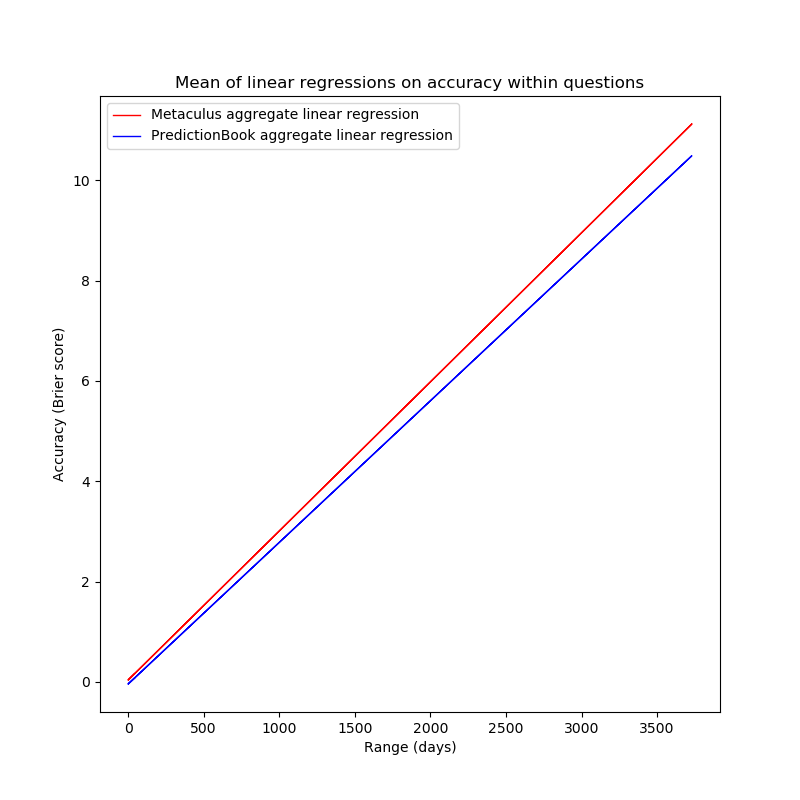
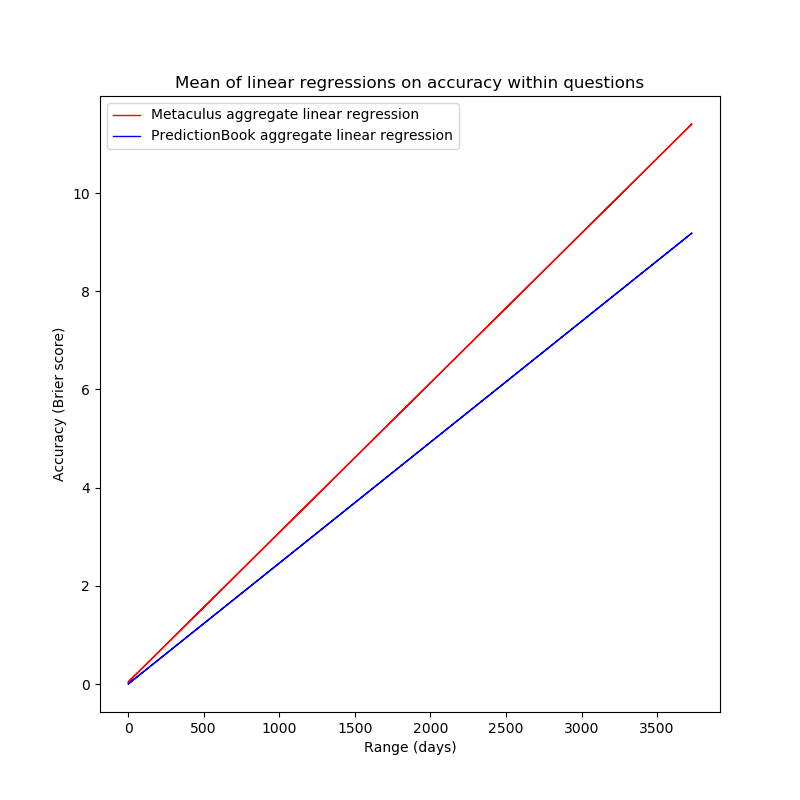
Weighted sums instead of unweighted sum.

diff --git a/code/range_and_forecasting_accuracy/load.py b/code/range_and_forecasting_accuracy/load.py
@@ -116,12 +116,15 @@ metlogifit_betweenq=spo.curve_fit(shrunk_logistic, metqbrier.T[0], metqbrier.T[1
 pbexpfit_betweenq=spo.curve_fit(shift_exp, pbqbrier.T[0], pbqbrier.T[1], bounds=([-np.inf, 0], [0, 1]))
 metexpfit_betweenq=spo.curve_fit(shift_exp, metqbrier.T[0], metqbrier.T[1], bounds=([-np.inf, 0], [0, 1]))
 
-awmetqslope=np.mean(list(map(lambda x: x[0], wmetqregs)))
-awmetqintercept=np.mean(list(map(lambda x: x[1], wmetqregs)))
-awpbqslope=np.mean(list(map(lambda x: x[0], wpbqregs)))
-awpbqintercept=np.mean(list(map(lambda x: x[1], wpbqregs)))
+clean_metforecasts=np.sum([len(wmetqbrier[i][0]) for i in range(0, len(wmetqbrier))])
+awmetqslope=np.sum([len(wmetqbrier[i][0])*wmetqregs[i][0] for i in range(0, len(wmetqregs))])/clean_metforecasts
+awmetqintercept=np.sum([len(wmetqbrier[i][0])*wmetqregs[i][1] for i in range(0, len(wmetqregs))])/clean_metforecasts
+clean_pbforecasts=np.sum([len(wpbqbrier[i][0]) for i in range(0, len(wpbqbrier))])
+awpbqslope=np.sum([len(wpbqbrier[i][0])*wpbqregs[i][0] for i in range(0, len(wpbqregs))])/clean_pbforecasts
+awpbqintercept=np.sum([len(wpbqbrier[i][0])*wpbqregs[i][1] for i in range(0, len(wpbqregs))])/clean_pbforecasts
 
 fwpbqbrier=list(filter(lambda x: len(x[0])>=10, wpbqbrier))
 fwpbqregs=list(map(lambda x: sps.linregress(x[0], x[1]), fwpbqbrier))
-fawpbqslope=np.mean(list(map(lambda x: x[0], fwpbqregs)))
-fawpbqintercept=np.mean(list(map(lambda x: x[1], fwpbqregs)))
+clean_fpbforecasts=np.sum([len(fwpbqbrier[i][0]) for i in range(0, len(fwpbqbrier))])
+fawpbqslope=np.sum([len(fwpbqbrier[i][0])*fwpbqregs[i][0] for i in range(0, len(fwpbqregs))])/clean_fpbforecasts
+fawpbqintercept=np.sum([len(fwpbqbrier[i][0])*fwpbqregs[i][1] for i in range(0, len(fwpbqregs))])/clean_fpbforecasts

diff --git a/range_and_forecasting_accuracy.md b/range_and_forecasting_accuracy.md
@@ -15,7 +15,6 @@ out to be yes, unclear and yes for Metaculus data; and no, no and yes
 for PredictionBook data. Possible reasons are discussed.__
 
 <!--TODO: fix instances of \* \*-->
-<!--TODO: fix predictionbook & metaculus capitalization-->
 
 Range and Forecasting Accuracy
 ===============================
@@ -231,17 +230,17 @@ The Metaculus data is relatively easy to obtain:
 The forecasts are available on a JSON API at
 `https://www.metaculus.com/api2/questions/?page=`. Fortunately,
 [gimpf](https://github.com/gimpf/) has already published [a collection of
-scripts](https://github.com/gimpf/metaculus-question-stats) for fetching &
+scripts](https://github.com/gimpf/Metaculus-question-stats) for fetching &
 analysing Metaculus data. I reused their script `fetch` to download the
 raw JSON. I then converted the distinct page objects in the generated
 file to a list of questions:
 
 	$ cd /usr/local/src
-	$ git clone https://github.com/gimpf/metaculus-question-stats
-	$ cd metaculus-question-stats
+	$ git clone https://github.com/gimpf/Metaculus-question-stats
+	$ cd Metaculus-question-stats
 	$ ./fetch
 	$ z site
-	$ jq -s '[.]|flatten' </usr/local/src/metaculus/data-questions-raw.json >data/metaculus.json
+	$ jq -s '[.]|flatten' </usr/local/src/Metaculus/data-questions-raw.json >data/metaculus.json
 
 I then wrote a python script to convert the JSON data to CSV in the form
 `id,questionrange,result,probability,range`, while also filtering out
@@ -425,8 +424,8 @@ We have four predictions:
 
 1. One with a range of 14 hours, a probability of 0.1 (Heloïse's prediction on 1), and a resolution of 0
 2. One with a range of 24 hours, a probability of 0.3, (Bessie's prediction on 1) and a resolution of 0
-3. One with a range of `$24h/d*7d-10h=158h$`, a probability of 0.6 (Heloïse's prediction on 2), and a resolution 0
-4. One with a range of `$24h/d*7d=168h$`, a probability of 0.95 (Bessie's prediction on 2), and a resolution 0
+3. One with a range of `$24h/d \cdot 7d-10h=158h$`, a probability of 0.6 (Heloïse's prediction on 2), and a resolution 0
+4. One with a range of `$24h/d \cdot 7d=168h$`, a probability of 0.95 (Bessie's prediction on 2), and a resolution 0
 
 The Brier scores for ranges are then 0.01 for 14h, 0.09 for 24h, 0.36
 for 158h, and 0.9025 for 168h. Here, higher range between forecasts is
@@ -712,6 +711,8 @@ I furthermore make some additional assumptions/desiderata about the the function
 The logistic function seems like an optimal candidate here: it fulfills
 at least desideratum 1 (if shrunk) and 3, and with some fiddling may
 even satisfy 2.
+
+<!--TODO: link Armstrong on the problem of fitting sigmoids here!-->
 
 Because this is very different from a [logistic
 regression](https://en.wikipedia.org/wiki/Logistic_regression) (scaled
@@ -1045,7 +1046,7 @@ years for PredictionBook is sizable by internet standards, it's not that
 much compared to the expected range of some predictions on the platform,
 which might go into the thousands of years).
 
-This can be seen in the data as well: The median range of metaculus and
+This can be seen in the data as well: The median range of Metaculus and
 PredictionBook predictions is only a couple of months, and less than 25%
 of questions have a range of more than one year:
 
@@ -1341,7 +1342,7 @@ questions is too small to explain the whole anomaly between forecasts.
 
 #### Non-Linear Curve-Fitting
 
-Again, one can fit the nonlinear exponential/sigmoid defined
+Again, one can fit the nonlinear exponential/logistic function defined
 [above](#NonLinear-CurveFitting) to the data between questions.
 
 	>>> pbexpfit_betweenq=spo.curve_fit(shift_exp, pbqbrier.T[0], pbqbrier.T[1], bounds=([-np.inf, 0], [0, 1]))
@@ -1434,8 +1435,6 @@ functions, and
 
 similarly short timespans for the exponential fit.
 
-<!--TODO: find 0.24 Brier time horizon here as well-->
-
 #### Why Longer Range Questions More Accurate?
 
 The big question now is: Why do forecasts on predictions on questions
@@ -1491,6 +1490,9 @@ within questions; are forecasts made on the same question later generally
 more accurate than forecasts made on a question earlier?
 
 ### Analysis
+
+<!--TODO: how about excluding regressions that have a p-value below a
+certain cutoff-value?-->
 
 In order to do this, one can compute the Brier score for each prediction,
 and then perform one linear regression/compute the correlation per
@@ -1554,11 +1556,12 @@ at the exact same second, which confuses the linear regression algorithm:
 	>>> list(filter(lambda x: x[0][0]==x[0][1] and len(x[0]==2) and x[1][0]==x[1][1] and len(x[1])==2, wpbqbrier))
 	[[array([367.09616898, 367.09616898]), array([0.2025, 0.2025])], [array([367.09637731, 367.09637731]), array([0.2025, 0.2025])], [array([367.09899306, 367.09899306]), array([0.0225, 0.0225])], [array([367.09908565, 367.09908565]), array([0.25, 0.25])], [array([367.09936343, 367.09936343]), array([0.16, 0.16])], [array([367.10018519, 367.10018519]), array([0.0225, 0.0225])], [array([0.25236111, 0.25236111]), array([0.0025, 0.0025])], [array([0.36797454, 0.36797454]), array([0.25, 0.25])], [array([0.25259259, 0.25259259]), array([0.0625, 0.0625])], [array([0.36671296, 0.36671296]), array([0.04, 0.04])], [array([0.40542824, 0.40542824]), array([0.09, 0.09])]]
 
-However, they can be filtered out pretty easily:
+However, they can be filtered out pretty easily, and we recompute `wpbqregs`:
 
 	>>> wpbqbrier=list(filter(lambda x: not (x[0][0]==x[0][1] and len(x[0]==2) and x[1][0]==x[1][1] and len(x[1])==2), wpbqbrier))
 	>>> len(wpbqbrier)
 	7596
+	>>> wpbqregs=list(map(lambda x: sps.linregress(x[0], x[1]), wpbqbrier))
 
 ### Result
 
@@ -1610,26 +1613,32 @@ lower accuracy).
 
 #### Aggregating Linear Regressions
 
-<!--TODO: this is not weighted!-->
-
 We can test whether this suspicion is acually correct by calculating
-the average offset and the average ascension—if the ascension is
-positive, our suspicion is confirmed. We have to weight questions by how
-many predictions they have received, otherwise the result is skewed by
-questions with very few predictions. This is done by computing the linear
-regression for range/accuracy for each question, multiplying it by the
-number of predictions on that question, adding up the linear regressions,
-and then dividing the result by the total number of predictions in
-the dataset:
+the average offset and the average ascension—if the ascension
+is positive, our suspicion is confirmed. We have to weight
+questions by how many predictions they have received, otherwise
+the result is skewed by questions with very few predictions (if
+you're trying to find out whether, in basketball, making more [free
+throws](https://en.wikipedia.org/wiki/Free_throw) makes you better at it,
+you'd also want to more strongly weight data from players with a larger
+number of shots).
 
-	>>> awmetqslope=np.mean(list(map(lambda x: x[0], wmetqregs)))
-	0.002971747318680323
-	>>> awmetqintercept=np.mean(list(map(lambda x: x[1], wmetqregs)))
-	0.03758132228574967
-	>>> awpbqslope=np.mean(list(map(lambda x: x[0], wpbqregs)))
-	3.1082381364053284
-	>>> awpbqintercept=np.mean(list(map(lambda x: x[1], wpbqregs)))
-	-238.96304759632133
+This is done by computing the linear regression for range/accuracy for
+each question (we did that with `w{met,pb}qregs`), multiplying it by the
+number of predictions on that question, adding up the linear regressions,
+and then dividing the result by the total number of predictions in the
+dataset (`clean_{met,pb}forecasts`):
+
+	>>> clean_metforecasts=np.sum([len(wmetqbrier[i][0]) for i in range(0, len(wmetqbrier))])
+	>>> awmetqslope=np.sum([len(wmetqbrier[i][0])*wmetqregs[i][0] for i in range(0, len(wmetqregs))])/clean_metforecasts
+	0.003048078896358434
+	>>> awmetqintercept=np.sum([len(wmetqbrier[i][0])*wmetqregs[i][1] for i in range(0, len(wmetqregs))])/clean_metforecasts
+	0.0388493550172143
+	>>> clean_pbforecasts=np.sum([len(wpbqbrier[i][0]) for i in range(0, len(wpbqbrier))])
+	>>> awpbqslope=np.sum([len(wpbqbrier[i][0])*wpbqregs[i][0] for i in range(0, len(wpbqregs))])/clean_pbforecasts
+	1.3731897568280482
+	>>> awpbqintercept=np.sum([len(wpbqbrier[i][0])*wpbqregs[i][1] for i in range(0, len(wpbqregs))])/clean_pbforecasts
+	-98.59072648628822
 
 The PredictionBook data—how do I put this—simply makes no sense.
 I am pretty confident that this code *is* correct, but I think that
@@ -1639,18 +1648,18 @@ arbitrarily exclude questions with less than ten predictions (actually
 an arbitrary choice I did not iterate over to get a “desired” result):
 
 	>>> fwpbqbrier=list(filter(lambda x: len(x[0])>=10, wpbqbrier))
-	>>> len(wpbqbrier)
+	>>> len(fwpbqbrier)
 	849
 	>>> # Recomputing linear regressions
+	>>> clean_fpbforecasts=np.sum([len(fwpbqbrier[i][0]) for i in range(0, len(fwpbqbrier))])
+	12865
 	>>> fwpbqregs=list(map(lambda x: sps.linregress(x[0], x[1]), fwpbqbrier))
-	>>> fawpbqslope=np.mean(list(map(lambda x: x[0], fwpbqregs)))
-	0.0028231736497672296
-	>>> fawpbqintercept=np.mean(list(map(lambda x: x[1], fwpbqregs)))
-	-0.04200041870396879
+	>>> fawpbqslope=np.sum([len(fwpbqbrier[i][0])*fwpbqregs[i][0] for i in range(0, len(fwpbqregs))])/clean_fpbforecasts
+	0.0024623252612491924
+	>>> fawpbqintercept=np.sum([len(fwpbqbrier[i][0])*fwpbqregs[i][1] for i in range(0, len(fwpbqregs))])/clean_fpbforecasts
+	0.00030707364984746446
 
-This looks much better (except the fact that, at time of resolution,
-this linear regression predicts that the Brier score will be negative,
-which is impossible).
+This looks much better.
 
 So it is true that accuracy within question *generally* is higher
 with lower range for Metaculus data, and similar for PredictionBook
@@ -1663,7 +1672,7 @@ data. Everything else would have been surprising.
 	plt.ylabel("Accuracy (Brier score)")
 
 	plt.plot(pbrngs, awmetqintercept+awmetqslope*pbrngs, 'red', label='Metaculus aggregate linear regression', linewidth=1)
-	plt.plot(pbrngs, awpbqintercept+awpbqslope*pbrngs, 'blue', label='PredictionBook aggregate linear regression', linewidth=1)
+	plt.plot(pbrngs, fawpbqintercept+fawpbqslope*pbrngs, 'blue', label='PredictionBook aggregate linear regression', linewidth=1)
 
 	plt.legend()
 
@@ -1695,6 +1704,8 @@ more than 1 unique prediction in the PredictionBook dataset:
 	557
 	>>> len(wpbqbrier)
 	7596
+
+<!--TODO: histograms!-->
 
 Let's first create sorted lists containing the numbers of forecasts on
 each question:

diff --git a/sites.md b/sites.md
@@ -22,7 +22,6 @@ Recommendation-Worthy Websites
 	* [Less Wrong](https://lesswrong.com/)
 	* [Everything Studies](https://everythingstudies.com/)
 	* [Overcoming Bias](http://www.overcomingbias.com/)
-	* [Paul Graham Essays](http://paulgraham.com/articles.html)
 	* [Slate Star Codex](http://slatestarcodex.com/)
 	* [☆✦ The Scintillating But Ultimately Untrue Thought ✦☆](https://unremediatedgender.space) (highly focused on a rather irrelevant topic, but the lessons are generalizable)
 * Programming
